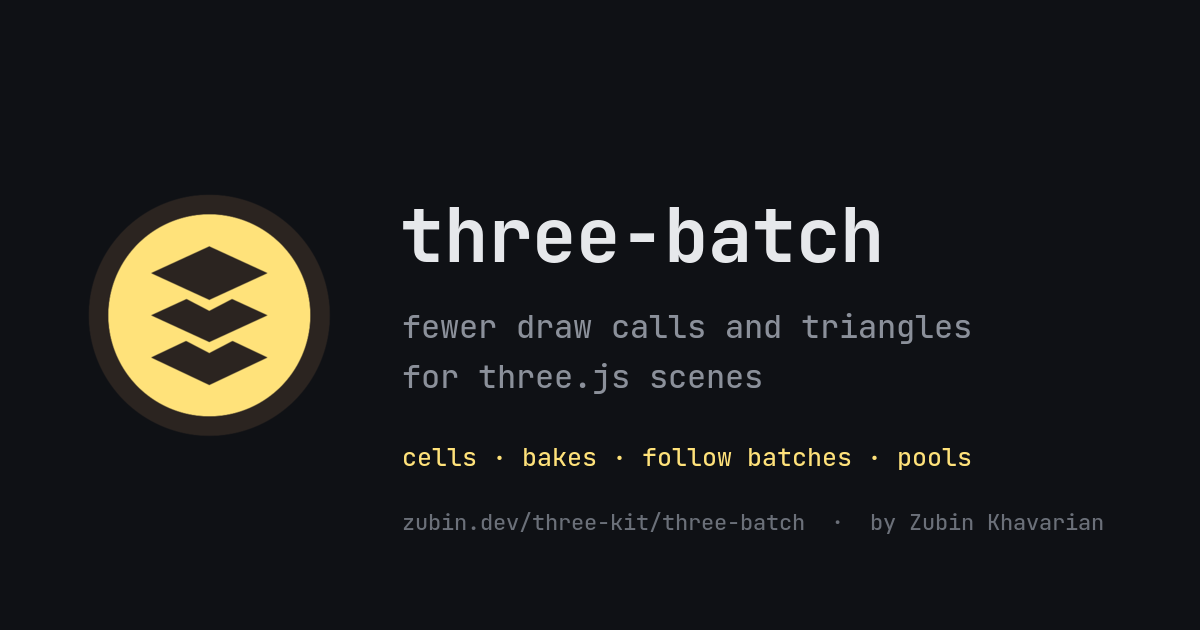
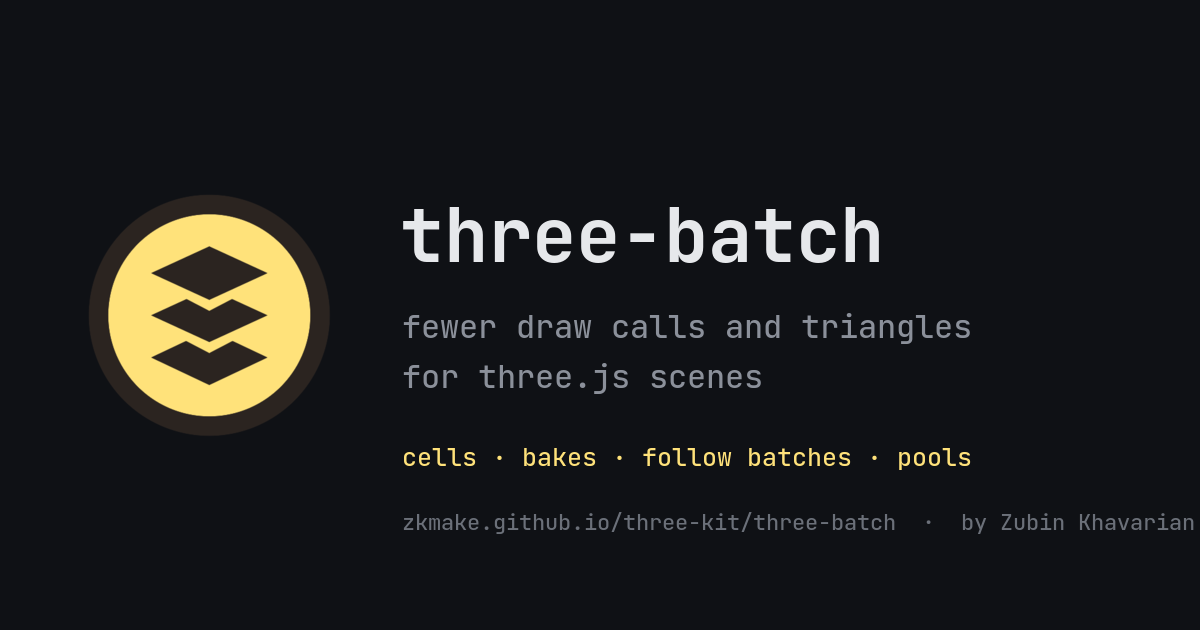
feat(site): host on GitHub Pages at zkmake.github.io/three-kit

Changed region(s): [[0.3392, 0.8143, 1.0, 0.8444]]

diff --git a/apps/site/astro.config.ts b/apps/site/astro.config.ts
@@ -27,17 +27,12 @@ const reactRefreshPreamble: AstroIntegration = {
   },
 };
 
-/**
- * The site lives at zubin.dev/three-kit/: built here, published as a release asset, and deployed
- * by zubin.dev. Cloudflare Pages (which sets `CF_PAGES`) still builds the old root copy for
- * three-kit.pages.dev until that becomes redirects.
- */
-const legacy = process.env.CF_PAGES === "1";
-const base = legacy ? "/" : "/three-kit/";
+/** GitHub Pages serves the repo's site at zkmake.github.io/three-kit/; CI deploys it from main. */
+const base = "/three-kit/";
 
 export default defineConfig({
   integrations: [reactRefreshPreamble],
-  site: legacy ? "https://three-kit.pages.dev" : "https://zubin.dev",
+  site: "https://zkmake.github.io",
   base,
   // Pages serves `/three-meter/index.html` at `/three-meter/`; links and canonicals match.
   trailingSlash: "always",

diff --git a/apps/site/src/readme-links.ts b/apps/site/src/readme-links.ts
@@ -12,13 +12,13 @@ const REPO = "zkmake/three-kit";
 const PACKAGE = /\/packages\/(three-[a-z]+)\/README\.md$/;
 const SIBLING = /^\.\.\/(three-[a-z]+)\/?$/;
 
-/** The site's old home: README links to it are written for npm and GitHub readers. */
-const OLD_SITE = /^https:\/\/three-kit\.pages\.dev\//;
+/** The site itself: README links to it are absolute, for npm and GitHub readers. */
+const SITE = /^https:\/\/zkmake\.github\.io\/three-kit\//;
 
 const rewrite = (url: string, pkg: string, raw: boolean, base: string) => {
   // On the site itself, a link to the site goes to this copy of it.
-  if (OLD_SITE.test(url)) {
-    return url.replace(OLD_SITE, base);
+  if (SITE.test(url)) {
+    return url.replace(SITE, base);
   }
 
   if (/^([a-z]+:|\/|#)/i.test(url)) {

diff --git a/apps/site/src/paths.ts b/apps/site/src/paths.ts
@@ -1,6 +1,6 @@
 /**
- * Where the site lives: under `/three-kit/` on zubin.dev, so every link, asset and fetch goes
- * through `url()` rather than starting at the domain root, which zubin.dev owns.
+ * Where the site lives: GitHub Pages serves the repo's site under `/three-kit/`, so every link,
+ * asset and fetch goes through `url()` rather than starting at the domain root.
  */
 
 /** The base the site is built under, with a trailing slash: `/three-kit/`. */

diff --git a/apps/site/scripts/make-icons.ts b/apps/site/scripts/make-icons.ts
@@ -13,7 +13,7 @@ import { homedir, tmpdir } from "node:os";
 const PUBLIC = new URL("../public/", import.meta.url).pathname;
 const FONT = `${homedir()}/Library/Fonts/JetBrainsMono-Medium.ttf`;
 const FONT_BOLD = `${homedir()}/Library/Fonts/JetBrainsMono-Bold.ttf`;
-const HOST = "zubin.dev/three-kit";
+const HOST = "zkmake.github.io/three-kit";
 
 type Card = {
   /** Folder under public/, or "" for the kit. */

diff --git a/CONTRIBUTING.md b/CONTRIBUTING.md
@@ -52,7 +52,7 @@ publishing, or switch the workspace to pnpm.
 
 `three` is a devDependency for the type pin and must stay out of `dependencies`.
 
-Its demo is `apps/site/src/demos/three-meter`, at three-kit.pages.dev/three-meter, with both the
+Its demo is `apps/site/src/demos/three-meter`, at zkmake.github.io/three-kit/three-meter, with both the
 vanilla three and the React Three Fiber integration.
 
 ## three-audit
@@ -87,7 +87,7 @@ vanilla three and the React Three Fiber integration.
   range); `src/react` is `<TexturePanel />`.
 - Readback writes rows so a PNG uploads back unchanged: flipped for `flipY` textures (not for
   `ImageBitmap`, which WebGL never flips), in upload order otherwise; sRGB re-encoded.
-- Its demo is `apps/site/src/demos/three-textures` (three-kit.pages.dev/three-textures): a vanilla
+- Its demo is `apps/site/src/demos/three-textures` (zkmake.github.io/three-kit/three-textures): a vanilla
   and a React Three Fiber version of one scene, with the three-meter HUD beside the panel. Its
   textures are original and committed; `bun run textures` in `apps/site` remakes them (needs ImageMagick):
   `crate.webp`, and `stickers.ktx2`, a Basis ETC1S atlas whose tiles say TOP, so a swap or readback
@@ -95,13 +95,10 @@ vanilla three and the React Three Fiber integration.
 
 ## The site
 
-`apps/site` is the site at zubin.dev/three-kit/, an Astro build under the base `/three-kit/`.
-On every push to main that passes CI, the `site` job in `ci.yml` uploads the build as
-`site.tar.gz` to the rolling `site` release. It then asks zubin.dev to redeploy, using the
-`ZUBIN_DEV_DISPATCH_TOKEN` secret; zubin.dev's deploy unpacks the tarball into its `/three-kit/`.
-Every link and asset goes through `url()` in `src/paths.ts`, never a root path: zubin.dev owns `/`.
-Cloudflare Pages (which sets `CF_PAGES`) still builds a root copy for three-kit.pages.dev until
-that becomes redirects. In dev the site is at `localhost:3020/three-kit/`.
+`apps/site` is the site at zkmake.github.io/three-kit/: an Astro build under the base `/three-kit/`,
+deployed to GitHub Pages by the `pages` job in `ci.yml` on every push to main that passes the
+checks. Every link and asset goes through `url()` in `src/paths.ts`, never a root path. In dev the
+site is at `localhost:3020/three-kit/`.
 
 One page per package, listed in `src/libraries.ts`:
 

diff --git a/packages/three-meter/README.md b/packages/three-meter/README.md
@@ -9,7 +9,7 @@ textures and shaders in GPU memory. Zero dependencies. Works with `WebGLRenderer
 bun add -d @zkmake/three-meter   # or npm i -D / pnpm add -D
 ```
 
-Live demo: [three-kit.pages.dev/three-meter](https://three-kit.pages.dev/three-meter/), with a vanilla three and a
+Live demo: [zkmake.github.io/three-kit/three-meter](https://zkmake.github.io/three-kit/three-meter/), with a vanilla three and a
 React Three Fiber take on the same scene. Add `?webgpu` for the WebGPU renderer and `?count=30000` to
 load the scene up past the demo's triangle budget.
 
@@ -302,7 +302,7 @@ The card is `.perf-hud__card`, holding `.perf-hud__brand` and your content (the 
 
 ## Examples
 
-[`apps/site/src/demos/three-meter`](https://github.com/zkmake/three-kit/tree/main/apps/site/src/demos/three-meter) is what runs at [three-kit.pages.dev/three-meter](https://three-kit.pages.dev/three-meter/):
+[`apps/site/src/demos/three-meter`](https://github.com/zkmake/three-kit/tree/main/apps/site/src/demos/three-meter) is what runs at [zkmake.github.io/three-kit/three-meter](https://zkmake.github.io/three-kit/three-meter/):
 both integrations of the same scene, swapped from the header.
 [`vanilla.ts`](https://github.com/zkmake/three-kit/blob/main/apps/site/src/demos/three-meter/vanilla.ts) is plain three with `mountPerfHud`;
 [`r3f.tsx`](https://github.com/zkmake/three-kit/blob/main/apps/site/src/demos/three-meter/r3f.tsx) is React Three Fiber with `PerfSampler` and

diff --git a/packages/three-textures/README.md b/packages/three-textures/README.md
@@ -13,7 +13,7 @@ original was used. Vanilla three and React Three Fiber.
 bun add -d @zkmake/three-textures   # or npm i -D / pnpm add -D
 ```
 
-Live demo: [three-kit.pages.dev/three-textures](https://three-kit.pages.dev/three-textures/), with a vanilla three and
+Live demo: [zkmake.github.io/three-kit/three-textures](https://zkmake.github.io/three-kit/three-textures/), with a vanilla three and
 a React Three Fiber take on the same scene: an image texture and a clone of it, a data texture, and
 a KTX2 atlas cut into four cards. Download the atlas, paint on it, drop it back.
 
@@ -123,7 +123,7 @@ await lab.showOriginal("bunny", true);
 ## Examples
 
 [`apps/site/src/demos/three-textures`](https://github.com/zkmake/three-kit/tree/main/apps/site/src/demos/three-textures)
-is what runs at three-kit.pages.dev/three-textures: [`vanilla.ts`](https://github.com/zkmake/three-kit/blob/main/apps/site/src/demos/three-textures/vanilla.ts)
+is what runs at zkmake.github.io/three-kit/three-textures: [`vanilla.ts`](https://github.com/zkmake/three-kit/blob/main/apps/site/src/demos/three-textures/vanilla.ts)
 with `mountTexturePanel`, [`r3f.tsx`](https://github.com/zkmake/three-kit/blob/main/apps/site/src/demos/three-textures/r3f.tsx)
 with `<TexturePanel />`, each beside the three-meter HUD. `?r3f` opens on Fiber.
 

diff --git a/README.md b/README.md
@@ -11,13 +11,13 @@ version, changelog and README.
 | [`@zkmake/three-textures`](packages/three-textures) | Dev panel for a scene's textures: download, paint, swap back in live (KTX2 too), A/B, live-link files. Vanilla and R3F.              |
 | [`@zkmake/three-cameras`](packages/three-cameras)   | Dev panel for a scene's cameras: every camera and the renderer's own, which are live, settings read live, frustums. Vanilla and R3F. |
 
-Site, with live demos and every README: [three-kit.pages.dev](https://three-kit.pages.dev/).
+Site, with live demos and every README: [zkmake.github.io/three-kit](https://zkmake.github.io/three-kit/).
 
 ## Layout
 
 ```
 packages/<name>/   one published package each
-apps/site/         three-kit.pages.dev (Astro), built against the packages' source
+apps/site/         zkmake.github.io/three-kit (Astro), built against the packages' source
 configs/<name>/    shared config packages (TypeScript)
 docs/              images the package READMEs load
 ```

diff --git a/packages/three-cameras/README.md b/packages/three-cameras/README.md
@@ -19,7 +19,7 @@ camera (its kind, name, and whether it's live or looked through); click it to ex
 bun add -d @zkmake/three-cameras   # or npm i -D / yarn add -D / pnpm add -D
 ```
 
-Live demo: [three-kit.pages.dev/three-cameras](https://three-kit.pages.dev/three-cameras/), with a
+Live demo: [zkmake.github.io/three-kit/three-cameras](https://zkmake.github.io/three-kit/three-cameras/), with a
 vanilla three and a React Three Fiber take on the same set: an orbit view, a dolly camera circling
 the set and drawing a picture-in-picture inset, an overhead orthographic camera and a security
 camera.
